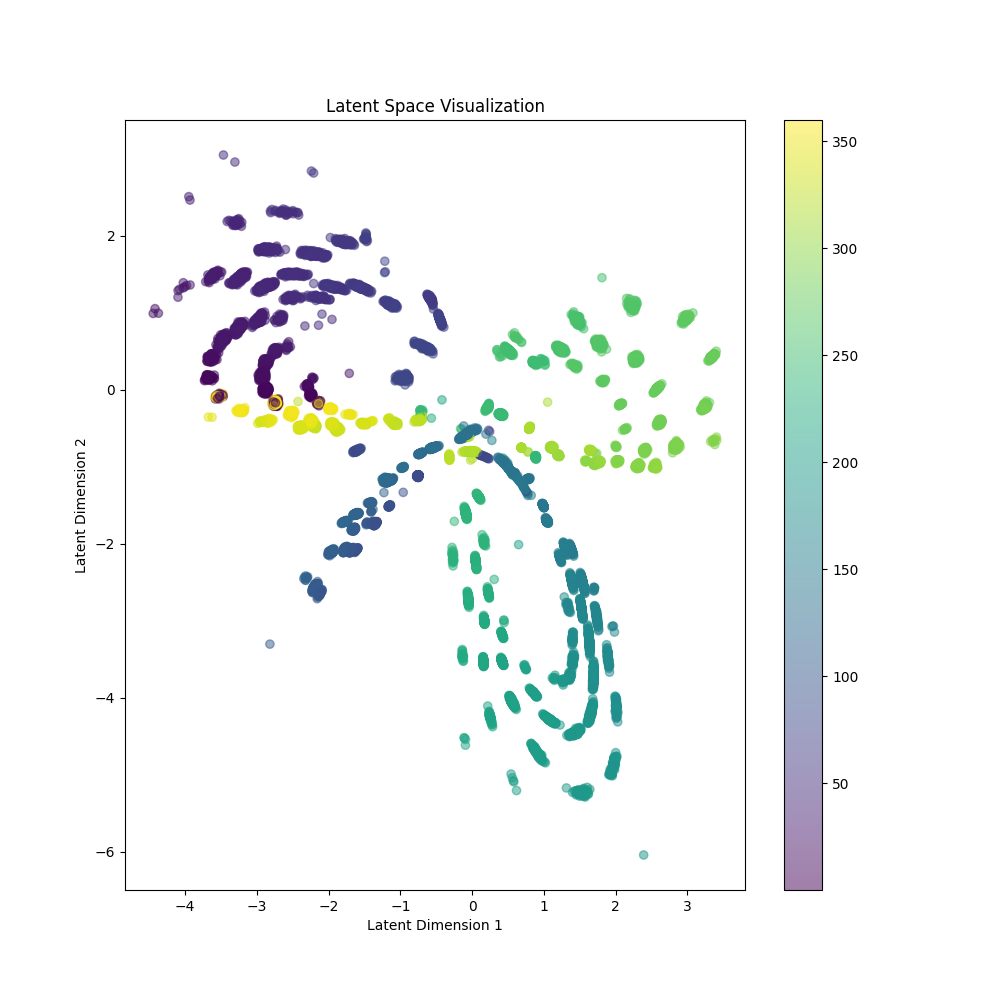
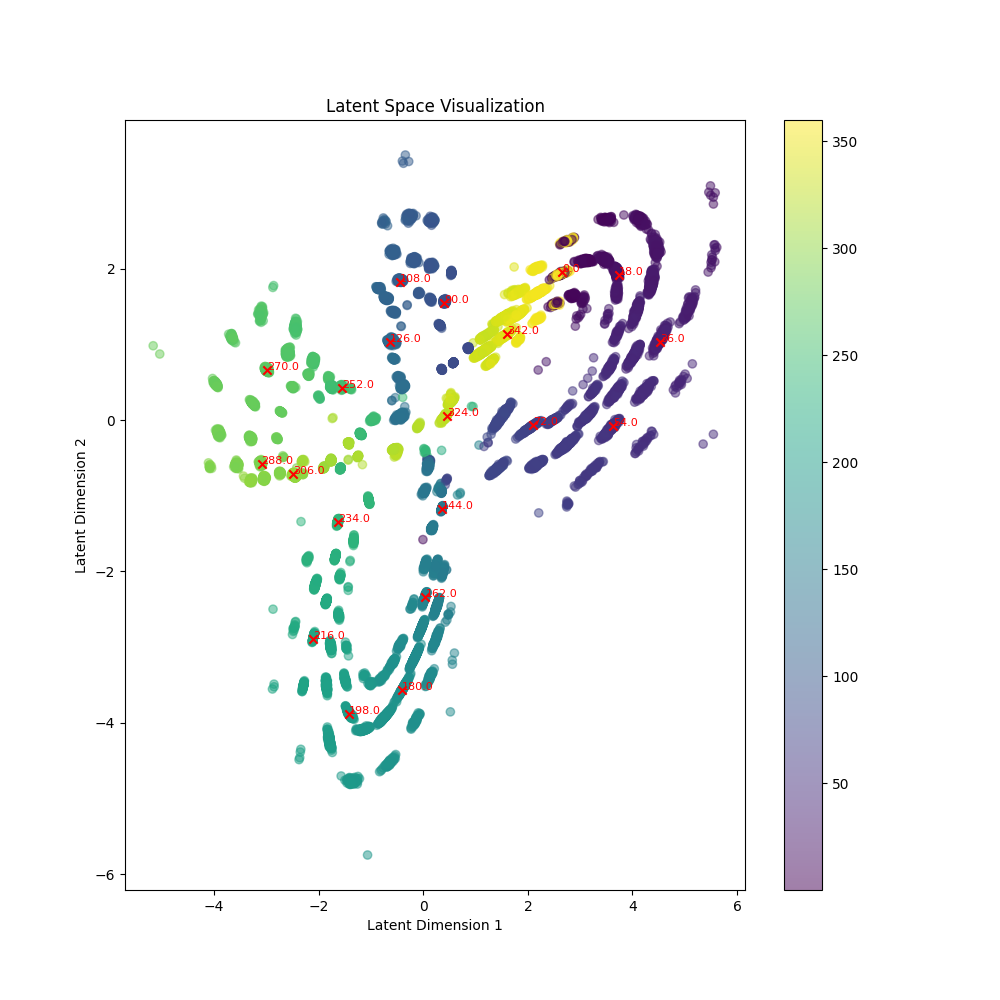
Add HOWTO and better training

diff --git a/seismic_angle_recognition/create_signals.py b/seismic_angle_recognition/create_signals.py
@@ -95,6 +95,27 @@ def remove_temp_files(directory: Path):
             except Exception as e:
                 print(f"Error removing file {file}: {e}")
 
+def process_sources(sources, angles, distances, vel_model, station, std_hist, f_max, duration, axitra_path, noise_level):
+    all_signals = []
+    for source, angle, distance in zip(sources, angles, distances):
+        source = np.reshape(source, (-1, 1)).T
+        ap = Axitra(vel_model, station, source, fmax=f_max, duration=duration, xl=0., latlon=True, axpath=axitra_path)
+        green_fn = moment.green(ap)
+        t, sx, sy, sz = moment.conv(ap, std_hist, source_type=1, t0=2, unit=1)  # 1 should be Ricker
+        print(len(t))
+        sx += noise_level * np.random.randn(len(sx)) * sx
+        sy += noise_level * np.random.randn(len(sy)) * sy
+        sz += noise_level * np.random.randn(len(sz)) * sz
+        signals = np.stack((sx, sy, sz), axis=-1)
+        
+        signal_data = {
+            'signals': signals,
+            'angle': angle,
+            'distance': distance
+        }
+        all_signals.append(signal_data)
+    return all_signals
+
 @hydra.main(config_path="./config/", config_name="config.yaml")
 def main(cfg: DictConfig):
 
@@ -117,29 +138,17 @@ def main(cfg: DictConfig):
     vel_model = create_velocity_model()
     noise_level = cfg.noise_level
 
-    all_signals = []
-    # Print the sources
-    for source, angle, distance in zip(sources, angles, distances):
-        source = np.reshape(source, (-1, 1)).T
-        ap = Axitra(vel_model, station, source, fmax=f_max, duration=duration, xl=0., latlon=True, axpath=axitra_path)
-        green_fn = moment.green(ap)
-        t, sx, sy, sz = moment.conv(ap, std_hist, source_type=1, t0=2, unit=1)  # 1 should be Ricker
-        print(len(t))
-        sx += noise_level * np.random.randn(len(sx)) * sx
-        sy += noise_level * np.random.randn(len(sy)) * sy
-        sz += noise_level * np.random.randn(len(sz)) * sz
-        signals = np.stack((sx, sy, sz), axis=-1)
-        
-        signal_data = {
-            'signals': signals,
-            'angle': angle,
-            'distance': distance
-        }
-        all_signals.append(signal_data)
-        
-    # Salva tutti i segnali in un file .npy
-    np.save(Path(cfg.output_data_path) / Path(cfg.output_file), all_signals)
+    all_signals = process_sources(sources, angles, distances, vel_model, station, std_hist, f_max, duration, axitra_path, noise_level)
+    
+    # Create additional 20 samples of sources with distance_perc=0 and N=20
+    additional_sources, additional_angles, additional_distances = create_sources(center_lat, center_lon, center_depth, distance, 0, 20)
+    additional_signals = process_sources(additional_sources, additional_angles, additional_distances, vel_model, station, std_hist, f_max, duration, axitra_path, noise_level)
+    
+    # np.save(Path(cfg.output_data_path) / Path(cfg.output_file), all_signals)
     print(f"Saved signals to {Path(cfg.output_data_path) / Path(cfg.output_file)}")
+
+    np.save(Path(cfg.output_data_path) / Path("additional_signals.npy"), additional_signals)
+    print(f"Saved additional signals to {Path(cfg.output_data_path) / Path('additional_signals.npy')}")
 
     temp_files_directory = Path(cfg.temp_files_directory)
     remove_temp_files(temp_files_directory)

diff --git a/seismic_angle_recognition/train_model.py b/seismic_angle_recognition/train_model.py
@@ -298,9 +298,25 @@ class SeismicDataModule(pl.LightningDataModule):
         y_tensor = torch.tensor(y, dtype=torch.float32)
         self.dataset = TensorDataset(x_tensor, y_tensor)
 
+    def preprocess_additional_sources(self):
+        """Preprocess additional sources of data."""
+        additional_sources_path = Path(self.data_path) / "additional_signals.npy"
+        if additional_sources_path.exists():
+            additional_sources = np.load(additional_sources_path, allow_pickle=True)
+            additional_x = np.concatenate([d['signals'] for d in additional_sources])
+            additional_y = np.array([d['angle'] for d in additional_sources])
+            
+            additional_x = self.scaler.transform(additional_x.reshape(-1, additional_x.shape[-1])).reshape(additional_x.shape)
+            additional_x_tensor = torch.tensor(additional_x, dtype=torch.float32).permute(0, 2, 1)
+            additional_y_tensor = torch.tensor(additional_y, dtype=torch.float32)
+            self.additional_dataset = TensorDataset(additional_x_tensor, additional_y_tensor)
+        else:
+            self.additional_dataset = None
+    
     def setup(self, stage: str = None):
         """Setup the dataset splits."""
         self.preprocess_data()
+        self.preprocess_additional_sources()
         train_size = int(self.train_split * len(self.dataset))
         val_size = int(self.val_split * len(self.dataset))
         test_size = len(self.dataset) - train_size - val_size
@@ -318,6 +334,12 @@ class SeismicDataModule(pl.LightningDataModule):
         """Return the test dataloader."""
         return DataLoader(self.test_dataset, batch_size=self.batch_size)
 
+    def additional_dataloader(self) -> DataLoader:
+        """Return the additional dataloader."""
+        if self.additional_dataset is not None:
+            return DataLoader(self.additional_dataset, batch_size=self.batch_size)
+        else:
+            return None
 class EmbeddingToLabelModel(pl.LightningModule):
     """
     Model to map embeddings to labels.
@@ -469,7 +491,7 @@ def main(cfg: DictConfig):
 
     # Data Module for VAE
     data_module_vae = SeismicDataModule(cfg.vae_model)
-
+    additional_sources = np.load(Path(cfg.vae_model.data_path) / Path("additional_signals.npy"), allow_pickle=True)
 
     mlflow_logger = MLFlowLogger(experiment_name="my_experiment", tracking_uri=mlflow_uri)
 
@@ -486,7 +508,8 @@ def main(cfg: DictConfig):
         trainer_vae.test(vae_model, data_module_vae)
 
         # Plot latent space
-        plot_latent_space(vae_model, data_module_vae.val_dataloader(), cfg.vae_model.figures_dir, "latent_space.png")
+        plot_latent_space(vae_model, data_module_vae.val_dataloader(), cfg.vae_model.figures_dir, "latent_space.png", additional_dataloader=data_module_vae.additional_dataloader())
+
     else:
         # Load the best model if not training
         # Please use the same config file of that date

diff --git a/seismic_angle_recognition/plot_tools.py b/seismic_angle_recognition/plot_tools.py
@@ -4,7 +4,7 @@ from torch.utils.data import DataLoader
 import pytorch_lightning as pl
 from pathlib import Path
 
-def plot_latent_space(model: pl.LightningModule, dataloader: DataLoader, file_path: str, file_name: str, num_batches: int = 1000):
+def plot_latent_space(model: pl.LightningModule, dataloader: DataLoader, file_path: str, file_name: str, num_batches: int = 1000, additional_dataloader: DataLoader = None):
     model.eval()
     latents = []
     labels = []
@@ -20,9 +20,20 @@ def plot_latent_space(model: pl.LightningModule, dataloader: DataLoader, file_pa
 
     latents = torch.cat(latents).cpu().numpy()
     labels = torch.cat(labels).cpu().numpy()
-
     plt.figure(figsize=(10, 10))
     scatter = plt.scatter(latents[:, 0], latents[:, 1], c=labels, cmap='viridis', alpha=0.5)
+
+    
+    if additional_dataloader is not None:
+        for i, (x, y) in enumerate(additional_dataloader):
+            with torch.no_grad():
+                mean, _ = model.vae.encode(x)
+                z = mean  # Use only the mean, set logvar to zero
+                z = z.cpu().numpy()
+                plt.scatter(z[:, 0], z[:, 1], c='red', marker='x')
+                for j in range(len(z)):
+                    plt.text(z[j, 0], z[j, 1], str(y[j].item()), color='red', fontsize=8)
+
     plt.colorbar(scatter)
     plt.xlabel('Latent Dimension 1')
     plt.ylabel('Latent Dimension 2')

diff --git a/HOWTO.md b/HOWTO.md
@@ -1,0 +1,65 @@
+# HOWTO
+
+## Clone the Repository
+
+To clone the repository, run the following command:
+
+```bash
+git clone https://github.com/lorenzomie/Seismic-Angle-Recognition.git
+cd Seismic-Angle-Recognition
+```
+
+## Set Up the Linux Environment
+Ensure you have Python 3.8 or higher installed.
+
+## Create and Activate a Virtual Environment
+To create a virtual environment, run the following commands:
+
+```bash
+python3 -m venv venv
+source venv/bin/activate
+```
+
+## Install Python Requirements
+With the virtual environment activated, install the Python requirements listed in the requirements.txt file:
+
+```bash
+pip install -r requirements.txt
+```
+
+## Install Axitra locally
+To install Axitra locally, navigate to the [source directory](seismic_angle_recognition/src) and run the installation commands:
+
+```bash
+cd seismic_angle_recognition/src
+```
+
+For detailed information about axitra refers to [Axitra README](seismic_angle_recognition/src/README.md)
+
+## Run the Scripts
+
+To create the signals, run the following command:
+
+```bash
+python3 seismic_angle_recognition/create_signals.py
+```
+
+To train the model, run the following command:
+
+```bash
+python3 seismic_angle_recognition/train_model.py
+```
+
+All hyperparameters can be set in the [config.yaml](seismic_angle_recognition/config/config.yaml) file located in the config directory. 
+
+### Additionals
+
+If PROTOCOL_BUFFER is giving error please use:
+```bash
+export PROTOCOL_BUFFERS_PYTHON_IMPLEMENTATION=python
+```
+
+If you want to track metrics with mlflow, please forward a local port in another terminal:
+```bash
+python3 -m mlflow server --host 127.0.0.1 --port 8080
+```

diff --git a/README.md b/README.md
@@ -71,7 +71,7 @@ Some metrics are available here
 
 The mean of test dataset is:
 
-Mean of error: 1.5931577610969543 [deg]
+Mean of error: 0.15 [deg]
 
 ## Conclusion
 
